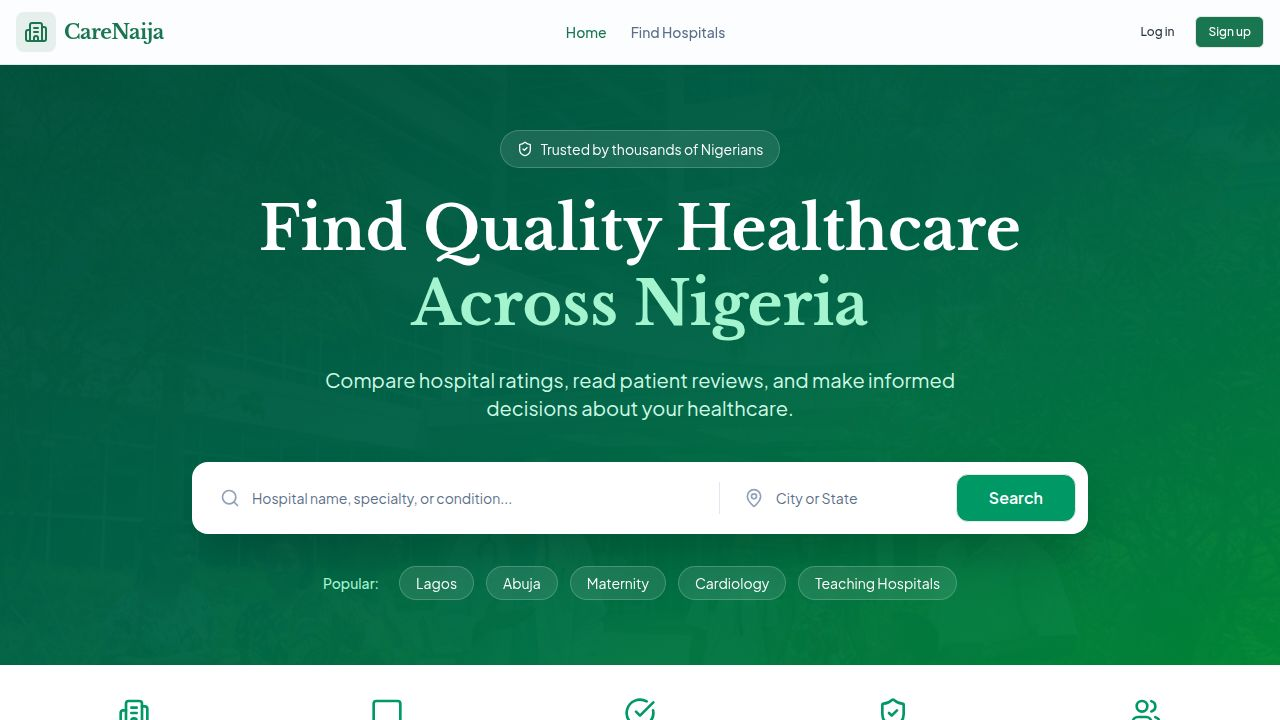
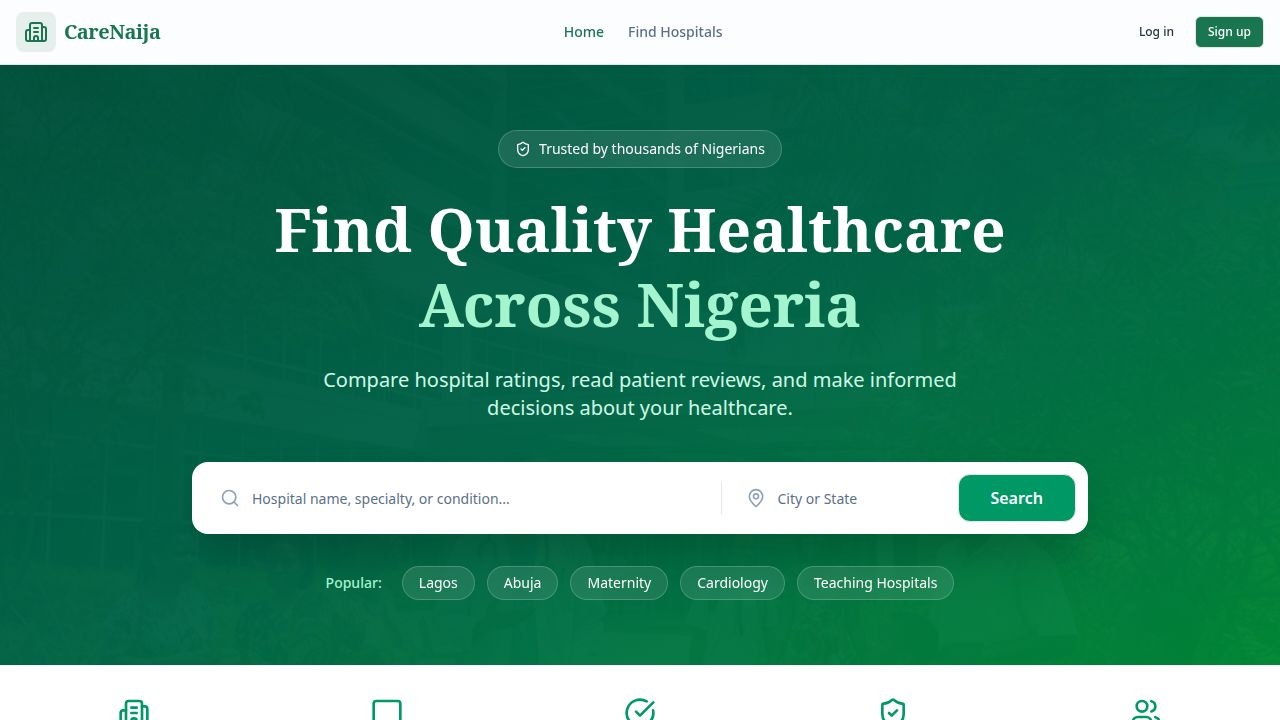
Add health education hub with new database tables and storage methods
Adds new database tables for health categories, articles, diseases, and bookmarks, along with corresponding storage methods in `server/storage.ts`.

Replit-Commit-Author: Agent
Replit-Commit-Session-Id: 4706d6d3-8abb-4a23-87cc-4ed7d739138a
Replit-Commit-Checkpoint-Type: intermediate_checkpoint
Replit-Commit-Event-Id: 3e101a46-b3c6-4a0e-a09a-b2083dc5ae5d
Replit-Commit-Screenshot-Url: https://storage.googleapis.com/screenshot-production-us-central1/a8a0184c-358c-447c-9957-be76ff9dfae6/4706d6d3-8abb-4a23-87cc-4ed7d739138a/bRXwL20
Replit-Helium-Checkpoint-Created: true

diff --git a/server/storage.ts b/server/storage.ts
@@ -42,6 +42,12 @@ import {
   featuredReviewers,
   profileLevels,
   pointValues,
+  healthCategories,
+  healthArticles,
+  diseases,
+  healthBookmarks,
+  healthTips,
+  newsletterSubscribers,
   type User,
   type UpsertUser,
   type Hospital,
@@ -120,6 +126,17 @@ import {
   type InsertAchievementNotification,
   type FeaturedReviewer,
   type InsertFeaturedReviewer,
+  type HealthCategory,
+  type InsertHealthCategory,
+  type HealthArticle,
+  type InsertHealthArticle,
+  type Disease,
+  type InsertDisease,
+  type HealthBookmark,
+  type HealthTip,
+  type InsertHealthTip,
+  type NewsletterSubscriber,
+  type InsertNewsletterSubscriber,
 } from "@shared/schema";
 import { db } from "./db";
 import { eq, and, sql, ilike, or, desc, count, gte, inArray } from "drizzle-orm";
@@ -2398,6 +2415,275 @@ export class DatabaseStorage implements IStorage {
       const existing = await this.getBadgeByCode(badge.code);
       if (!existing) {
         await this.createBadge(badge);
+      }
+    }
+  }
+
+  // ==================== HEALTH EDUCATION HUB ====================
+
+  // Health Categories
+  async getAllHealthCategories(): Promise<HealthCategory[]> {
+    return await db.select().from(healthCategories)
+      .where(eq(healthCategories.isActive, true))
+      .orderBy(healthCategories.displayOrder);
+  }
+
+  async getHealthCategoryBySlug(slug: string): Promise<HealthCategory | undefined> {
+    const [category] = await db.select().from(healthCategories)
+      .where(eq(healthCategories.slug, slug));
+    return category;
+  }
+
+  async createHealthCategory(data: InsertHealthCategory): Promise<HealthCategory> {
+    const [category] = await db.insert(healthCategories).values(data).returning();
+    return category;
+  }
+
+  // Health Articles
+  async getAllHealthArticles(status?: string): Promise<HealthArticle[]> {
+    if (status) {
+      return await db.select().from(healthArticles)
+        .where(eq(healthArticles.status, status))
+        .orderBy(desc(healthArticles.publishedAt));
+    }
+    return await db.select().from(healthArticles)
+      .orderBy(desc(healthArticles.publishedAt));
+  }
+
+  async getHealthArticleBySlug(slug: string): Promise<HealthArticle | undefined> {
+    const [article] = await db.select().from(healthArticles)
+      .where(eq(healthArticles.slug, slug));
+    return article;
+  }
+
+  async getHealthArticlesByCategory(categoryId: number): Promise<HealthArticle[]> {
+    return await db.select().from(healthArticles)
+      .where(and(
+        eq(healthArticles.categoryId, categoryId),
+        eq(healthArticles.status, 'published')
+      ))
+      .orderBy(desc(healthArticles.publishedAt));
+  }
+
+  async getFeaturedHealthArticles(limit = 5): Promise<HealthArticle[]> {
+    return await db.select().from(healthArticles)
+      .where(and(
+        eq(healthArticles.isFeatured, true),
+        eq(healthArticles.status, 'published')
+      ))
+      .orderBy(desc(healthArticles.publishedAt))
+      .limit(limit);
+  }
+
+  async getPopularHealthArticles(limit = 4): Promise<HealthArticle[]> {
+    return await db.select().from(healthArticles)
+      .where(eq(healthArticles.status, 'published'))
+      .orderBy(desc(healthArticles.viewCount))
+      .limit(limit);
+  }
+
+  async getRecentHealthArticles(limit = 4): Promise<HealthArticle[]> {
+    return await db.select().from(healthArticles)
+      .where(eq(healthArticles.status, 'published'))
+      .orderBy(desc(healthArticles.publishedAt))
+      .limit(limit);
+  }
+
+  async getEditorPickHealthArticles(limit = 4): Promise<HealthArticle[]> {
+    return await db.select().from(healthArticles)
+      .where(and(
+        eq(healthArticles.isEditorPick, true),
+        eq(healthArticles.status, 'published')
+      ))
+      .orderBy(desc(healthArticles.publishedAt))
+      .limit(limit);
+  }
+
+  async createHealthArticle(data: InsertHealthArticle): Promise<HealthArticle> {
+    const [article] = await db.insert(healthArticles).values(data).returning();
+    if (data.categoryId) {
+      await db.update(healthCategories)
+        .set({ articleCount: sql`${healthCategories.articleCount} + 1` })
+        .where(eq(healthCategories.id, data.categoryId));
+    }
+    return article;
+  }
+
+  async incrementHealthArticleViews(id: number): Promise<void> {
+    await db.update(healthArticles)
+      .set({ viewCount: sql`${healthArticles.viewCount} + 1` })
+      .where(eq(healthArticles.id, id));
+  }
+
+  async searchHealthArticles(query: string): Promise<HealthArticle[]> {
+    return await db.select().from(healthArticles)
+      .where(and(
+        eq(healthArticles.status, 'published'),
+        or(
+          ilike(healthArticles.title, `%${query}%`),
+          ilike(healthArticles.excerpt, `%${query}%`),
+          ilike(healthArticles.content, `%${query}%`)
+        )
+      ))
+      .orderBy(desc(healthArticles.viewCount))
+      .limit(20);
+  }
+
+  // Disease Library
+  async getAllDiseases(): Promise<Disease[]> {
+    return await db.select().from(diseases)
+      .orderBy(diseases.name);
+  }
+
+  async getCommonDiseases(): Promise<Disease[]> {
+    return await db.select().from(diseases)
+      .where(eq(diseases.isCommon, true))
+      .orderBy(diseases.name);
+  }
+
+  async getDiseaseBySlug(slug: string): Promise<Disease | undefined> {
+    const [disease] = await db.select().from(diseases)
+      .where(eq(diseases.slug, slug));
+    return disease;
+  }
+
+  async createDisease(data: InsertDisease): Promise<Disease> {
+    const [disease] = await db.insert(diseases).values(data).returning();
+    return disease;
+  }
+
+  async incrementDiseaseViews(id: number): Promise<void> {
+    await db.update(diseases)
+      .set({ viewCount: sql`${diseases.viewCount} + 1` })
+      .where(eq(diseases.id, id));
+  }
+
+  // Health Bookmarks
+  async getUserHealthBookmarks(userId: string): Promise<HealthArticle[]> {
+    const bookmarksList = await db.select({ articleId: healthBookmarks.articleId })
+      .from(healthBookmarks)
+      .where(eq(healthBookmarks.userId, userId));
+    
+    if (bookmarksList.length === 0) return [];
+    
+    const articleIds = bookmarksList.map(b => b.articleId);
+    return await db.select().from(healthArticles)
+      .where(inArray(healthArticles.id, articleIds));
+  }
+
+  async addHealthBookmark(userId: string, articleId: number): Promise<void> {
+    await db.insert(healthBookmarks)
+      .values({ userId, articleId })
+      .onConflictDoNothing();
+    await db.update(healthArticles)
+      .set({ bookmarkCount: sql`${healthArticles.bookmarkCount} + 1` })
+      .where(eq(healthArticles.id, articleId));
+  }
+
+  async removeHealthBookmark(userId: string, articleId: number): Promise<void> {
+    await db.delete(healthBookmarks)
+      .where(and(
+        eq(healthBookmarks.userId, userId),
+        eq(healthBookmarks.articleId, articleId)
+      ));
+    await db.update(healthArticles)
+      .set({ bookmarkCount: sql`${healthArticles.bookmarkCount} - 1` })
+      .where(eq(healthArticles.id, articleId));
+  }
+
+  async isArticleBookmarked(userId: string, articleId: number): Promise<boolean> {
+    const [bookmark] = await db.select().from(healthBookmarks)
+      .where(and(
+        eq(healthBookmarks.userId, userId),
+        eq(healthBookmarks.articleId, articleId)
+      ));
+    return !!bookmark;
+  }
+
+  // Health Tips
+  async getTodayHealthTip(): Promise<HealthTip | undefined> {
+    const today = new Date().toISOString().split('T')[0];
+    const [tip] = await db.select().from(healthTips)
+      .where(and(
+        eq(healthTips.displayDate, today),
+        eq(healthTips.isActive, true)
+      ));
+    if (tip) return tip;
+    
+    const [randomTip] = await db.select().from(healthTips)
+      .where(eq(healthTips.isActive, true))
+      .orderBy(sql`RANDOM()`)
+      .limit(1);
+    return randomTip;
+  }
+
+  async createHealthTip(data: InsertHealthTip): Promise<HealthTip> {
+    const [tip] = await db.insert(healthTips).values(data).returning();
+    return tip;
+  }
+
+  // Newsletter
+  async subscribeNewsletter(data: InsertNewsletterSubscriber): Promise<NewsletterSubscriber> {
+    const [subscriber] = await db.insert(newsletterSubscribers)
+      .values(data)
+      .onConflictDoUpdate({
+        target: newsletterSubscribers.email,
+        set: { isActive: true, unsubscribedAt: null }
+      })
+      .returning();
+    return subscriber;
+  }
+
+  async unsubscribeNewsletter(email: string): Promise<void> {
+    await db.update(newsletterSubscribers)
+      .set({ isActive: false, unsubscribedAt: new Date() })
+      .where(eq(newsletterSubscribers.email, email));
+  }
+
+  async getNewsletterSubscriberCount(): Promise<number> {
+    const [result] = await db.select({ count: count() }).from(newsletterSubscribers)
+      .where(eq(newsletterSubscribers.isActive, true));
+    return result?.count || 0;
+  }
+
+  // Seed default health categories
+  async seedHealthCategories(): Promise<void> {
+    const defaultCategories: InsertHealthCategory[] = [
+      { name: 'Disease Recognition & Symptoms', slug: 'disease-recognition', description: 'Learn to identify common health conditions and their symptoms', icon: 'stethoscope', displayOrder: 1 },
+      { name: 'Preventive Care & Wellness', slug: 'preventive-care', description: 'Tips and guidance for staying healthy and preventing illness', icon: 'shield-check', displayOrder: 2 },
+      { name: 'Healthy Lifestyle & Nutrition', slug: 'nutrition-lifestyle', description: 'Nutrition advice, exercise tips, and healthy living guides', icon: 'apple', displayOrder: 3 },
+      { name: "Women's Health & Maternity", slug: 'womens-health', description: 'Reproductive health, pregnancy, and wellness for women', icon: 'heart', displayOrder: 4 },
+      { name: "Children's Health & Pediatrics", slug: 'pediatrics', description: 'Healthcare guidance for infants, children, and adolescents', icon: 'baby', displayOrder: 5 },
+      { name: 'Mental Health & Wellbeing', slug: 'mental-health', description: 'Mental wellness, stress management, and emotional health', icon: 'brain', displayOrder: 6 },
+      { name: 'Chronic Disease Management', slug: 'chronic-disease', description: 'Living with and managing chronic health conditions', icon: 'activity', displayOrder: 7 },
+      { name: 'First Aid & Emergency Care', slug: 'first-aid', description: 'Emergency response, first aid tips, and urgent care guidance', icon: 'ambulance', displayOrder: 8 },
+    ];
+    
+    for (const category of defaultCategories) {
+      const existing = await this.getHealthCategoryBySlug(category.slug);
+      if (!existing) {
+        await this.createHealthCategory(category);
+      }
+    }
+  }
+
+  // Seed common diseases in Nigeria
+  async seedCommonDiseases(): Promise<void> {
+    const commonDiseases: InsertDisease[] = [
+      { name: 'Malaria', slug: 'malaria', description: 'A life-threatening disease caused by parasites transmitted through infected mosquito bites.', symptoms: ['Fever', 'Chills', 'Headache', 'Body aches', 'Fatigue', 'Nausea'], isCommon: true, prevalenceInNigeria: 'Very High - Nigeria accounts for about 27% of global malaria cases' },
+      { name: 'Typhoid Fever', slug: 'typhoid', description: 'A bacterial infection caused by Salmonella typhi, spread through contaminated food and water.', symptoms: ['High fever', 'Weakness', 'Stomach pain', 'Headache', 'Loss of appetite'], isCommon: true, prevalenceInNigeria: 'High - Common in areas with poor sanitation' },
+      { name: 'Hypertension', slug: 'hypertension', description: 'A chronic condition where blood pressure against artery walls is consistently too high.', symptoms: ['Often no symptoms', 'Headaches', 'Shortness of breath', 'Nosebleeds'], isCommon: true, prevalenceInNigeria: 'High - Affects about 30% of Nigerian adults' },
+      { name: 'Diabetes', slug: 'diabetes', description: 'A metabolic disease causing high blood sugar levels over a prolonged period.', symptoms: ['Increased thirst', 'Frequent urination', 'Unexplained weight loss', 'Fatigue', 'Blurred vision'], isCommon: true, prevalenceInNigeria: 'Increasing - About 5.8% of adults affected' },
+      { name: 'HIV/AIDS', slug: 'hiv-aids', description: 'A virus that attacks the immune system and can lead to AIDS if not treated.', symptoms: ['Initial flu-like symptoms', 'Later: weight loss', 'Recurring infections', 'Night sweats'], isCommon: true, prevalenceInNigeria: 'Significant - Nigeria has the second-largest HIV epidemic globally' },
+      { name: 'Tuberculosis', slug: 'tuberculosis', description: 'A bacterial infection that mainly affects the lungs but can spread to other organs.', symptoms: ['Persistent cough', 'Coughing blood', 'Chest pain', 'Weight loss', 'Night sweats'], isCommon: true, prevalenceInNigeria: 'High - Nigeria is among countries with highest TB burden' },
+      { name: 'Cholera', slug: 'cholera', description: 'An acute diarrheal infection caused by ingesting contaminated food or water.', symptoms: ['Severe watery diarrhea', 'Vomiting', 'Dehydration', 'Leg cramps'], isCommon: true, prevalenceInNigeria: 'Seasonal outbreaks common' },
+      { name: 'Lassa Fever', slug: 'lassa-fever', description: 'A viral hemorrhagic fever endemic to West Africa, spread by rodents.', symptoms: ['Fever', 'Weakness', 'Headache', 'Bleeding', 'Respiratory problems'], isCommon: true, prevalenceInNigeria: 'Endemic - Seasonal outbreaks occur' },
+    ];
+    
+    for (const disease of commonDiseases) {
+      const existing = await this.getDiseaseBySlug(disease.slug);
+      if (!existing) {
+        await this.createDisease(disease);
       }
     }
   }